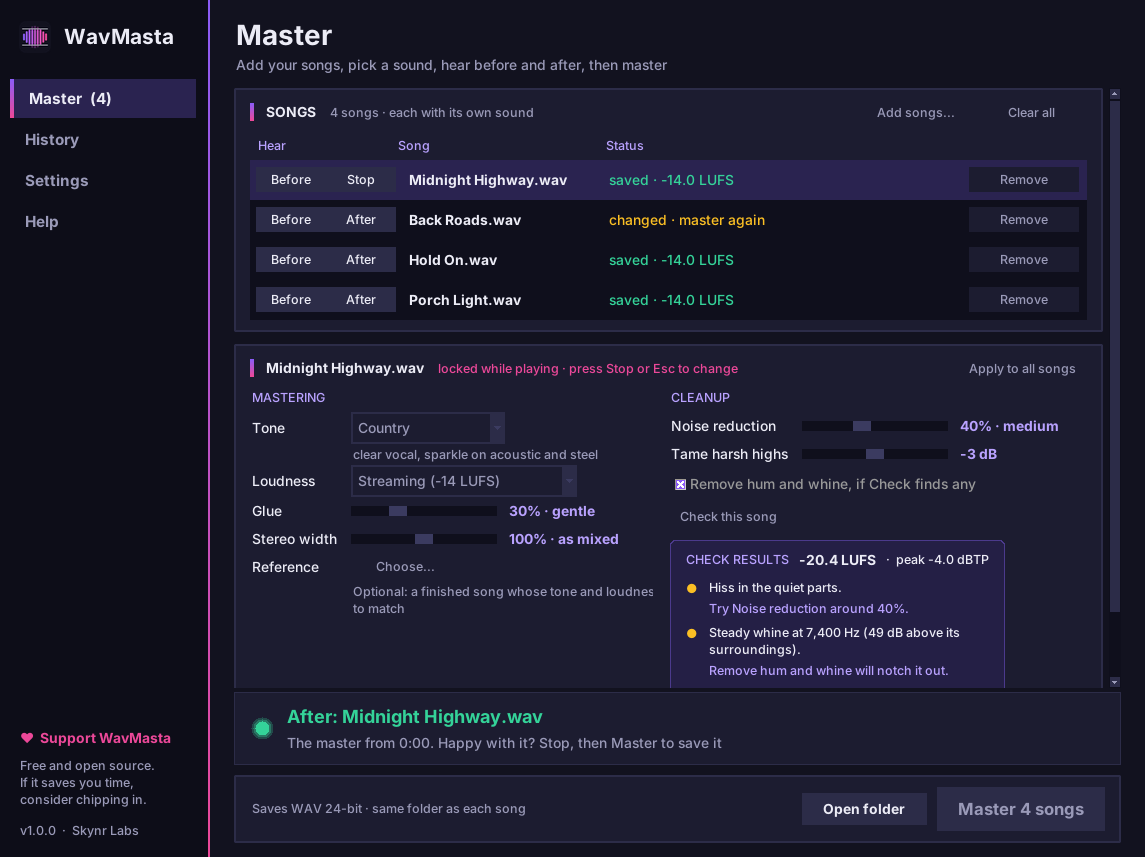
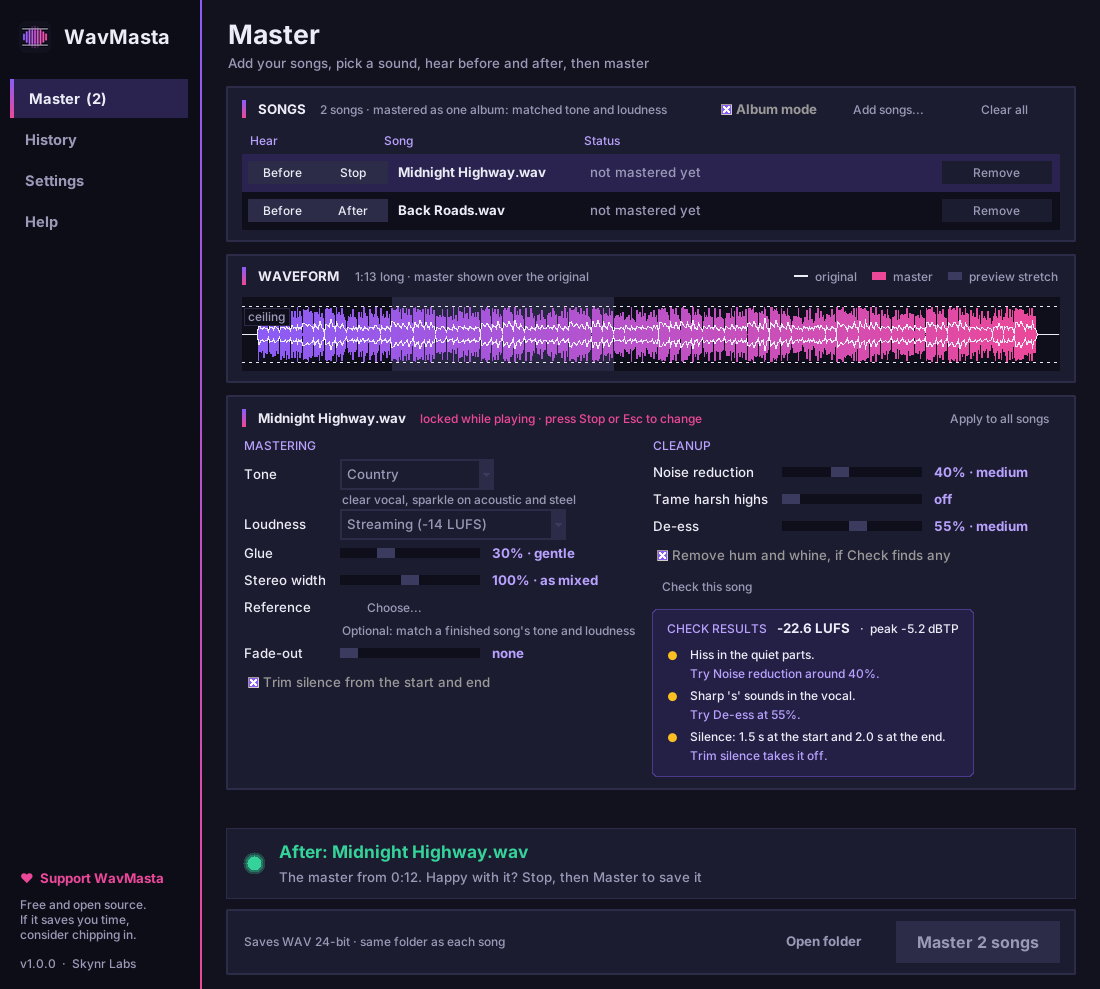
Docs: new features, CLI options and screenshot
Claude-Session: https://claude.ai/code/session_01Ce8T3vqW5MFDUd4Hd2ARY9

diff --git a/README.md b/README.md
@@ -41,14 +41,18 @@ WavMasta does the standard mastering steps in one window, tells you in plain Eng
 - 🧹 **Noise reduction**: a gentle de-hisser that works where hiss lives (above 1 kHz) and never touches the bass or the body of the mix
 - 🔌 **Hum and whine removal**: finds tones that sit there the whole song (50/60 Hz hum, a whine, ringing) and notches them out with very narrow filters, while the notes in your music are left alone
 - ✨ **Tame harsh highs**: softens fizzy, brittle top end, common in AI-generated songs; **Check** works out how many dB your song needs
+- 🐍 **De-esser**: turns down sharp "s" and "t" sounds in the vocal, only while each one lasts and only above 4.5 kHz; **Check** suggests an amount when it hears them
+- ✂ **Trim and fade**: cuts dead air off both ends (without clicks) and fades the ending smoothly; **Check** spots songs that stop suddenly
 - 🎚 **Tone presets**: Neutral, Country, Roots rock, Pop, Warm, Bright, all gentle (within 2 dB)
 - 🎯 **Match a reference**: pick a released song you love and WavMasta matches its tonal balance and loudness
 - 🧲 **Glue and width**: bus compression to hold the mix together, and stereo width that keeps bass and kick centred
-- 📏 **Loudness targets**: Streaming (-14 LUFS), Apple Music (-16), Loud (-11), Very loud (-9), with a true-peak limiter
+- 📏 **Loudness targets**: Streaming (-14 LUFS), Apple Music (-16), Loud (-11), Very loud (-9), with a look-ahead true-peak limiter that never clips
 - ▶ **Fair before/after**: hear the loudest 20 seconds of the original and the master at the same loudness
+- 〰 **Waveform before and after**: the master drawn over the original, with the ceiling and the stretch you heard, so you can see what changed
 - 💾 **Formats**: WAV 24-bit (for distributors), WAV 16-bit with dither (CD), FLAC, MP3 320
-- 📦 **Batch and albums**: drop a whole folder; **Apply to all songs** gives an album one sound
-- 📋 **A report for every master**: History shows each song's clipping, true peak, loudness, punch, and what cleanup removed (hiss, hum and whine, harsh highs)
+- 📦 **Batch and albums**: drop a whole folder; **Apply to all songs** copies one sound to the rest
+- 💿 **Album mode**: listens to the whole set, matches the songs' tone to the album's average and masters them all to the same loudness, so the record plays as one
+- 📋 **A report for every master**: History shows each song's clipping, true peak, loudness, punch, what cleanup removed (hiss, hum and whine, harsh highs, sharp "s" sounds), what was trimmed and how it ends
 - ✅ **Always know where you stand**: each song shows when it's saved, and says *changed · master again* if you tweak it afterwards
 - 🧭 **Clean navigation**: sidebar pages and keyboard shortcuts
 - 💻 **GUI and command line**: point and click, or script it
@@ -95,11 +99,11 @@ Everything happens on the **Master** page, top to bottom:
 
 1. **Drop your songs** (or a whole folder) onto the window, or click **Add songs...** (WAV, FLAC, MP3, AIFF, OGG or M4A). Use your final mix, ideally peaking around -3 to -6 dB with no limiter on the master bus.
 2. **Click a song**, then **Check this song**. WavMasta lists what it found; **Use suggestions** sets the cleanup for you.
-3. Pick a **Tone** and **Loudness** (or choose a **Reference** song to match). **Apply to all songs** copies the sound to the rest.
-4. Press **After** to hear the master and **Before** to hear the original, both from the loudest part of the song at the same loudness. The button turns into **Stop** while it plays, and the sound settings lock until you stop, so what you hear always matches what they show.
+3. Pick a **Tone** and **Loudness** (or choose a **Reference** song to match), and a **Fade-out** if the song stops suddenly. **Apply to all songs** copies the sound to the rest; tick **Album mode** to also match their tone and loudness as a set.
+4. Press **After** to hear the master and **Before** to hear the original, both from the loudest part of the song at the same loudness. The button turns into **Stop** while it plays, and the sound settings lock until you stop, so what you hear always matches what they show. The **Waveform** card draws the master over the original.
 5. Click **Master** (it says how many songs). Each row shows when its file is saved, and says **changed · master again** if you change a setting afterwards.
 
-**History** lists everything Check, Before/After and Master did. Under each mastered song is a short report: clipping, true peak, loudness, punch, and what cleanup removed. Double-click a saved song to open its folder.
+**History** lists everything Check, Before/After and Master did. Under each mastered song is a short report: clipping, true peak, loudness, punch, what cleanup removed, trimming and the ending. An album master adds how closely the songs' loudness now matches. Double-click a saved song to open its folder.
 
 **Settings** holds where masters are saved (next to each song by default), the file format, the peak ceiling, whether the folder opens when mastering finishes, and **Reset everything to defaults**.
 
@@ -107,14 +111,18 @@ Everything happens on the **Master** page, top to bottom:
 
 | Step | What it does |
 |---|---|
+| Trim | Cuts silence off both ends, keeping a short breath before the first note |
 | Rumble filter | Removes sub-bass below 25 Hz you can't hear but that eats loudness |
 | Hum and whine | Very narrow notches on steady tones (found on the untouched audio first) |
 | Noise reduction | De-hisses above 1 kHz, only what sits near the noise floor |
 | Tame harsh highs | A gentle shelf cut above 11 kHz |
+| De-ess | Turns the band above 4.5 kHz down only while an "s" lasts |
+| Album match | Nudges the song's tone toward the album's average (album mode only) |
 | Tone or reference | A gentle EQ shape, or a linear-phase match to your reference song |
 | Stereo width | Mid/side width; bass and kick stay centred |
 | Glue | Slow-attack bus compression |
-| Loudness and limiter | Lands on the target LUFS with true peaks under the ceiling |
+| Fade-out | Smooth fade to silence (before loudness, so the song still lands on target) |
+| Loudness and limiter | Lands on the target LUFS with a look-ahead true-peak limiter; never clips |
 
 ### ⌨ Keyboard shortcuts
 
@@ -140,6 +148,7 @@ wavmasta "My Song.wav" --check
 wavmasta "My Song.wav" --tone country --auto
 wavmasta *.wav --tone roots-rock --loudness -14 --glue 40 --out masters
 wavmasta "My Song.wav" --reference "Favourite Release.flac" --format flac
+wavmasta album/*.wav --album --fade-out 3 --out masters
 ```
 
 | Option | What it does |
@@ -151,10 +160,14 @@ wavmasta "My Song.wav" --reference "Favourite Release.flac" --format flac
 | `--denoise` | Noise reduction `0`-`100` (default `0`) |
 | `--no-hum-fix` | Don't notch out steady hum and whine |
 | `--tame-highs` | Cut harsh highs, `0`-`6` dB |
+| `--deess` | Tame sharp "s" sounds, `0`-`100` (default `0`) |
+| `--fade-out` | Fade the ending over this many seconds, `0`-`10` |
+| `--no-trim` | Keep silence at the start and end |
+| `--album` | Master all the songs as one album: matched tone and loudness |
 | `--glue` | Glue compression `0`-`100` (default `30`) |
 | `--width` | Stereo width `0`-`150` (default `100`) |
 | `--reference` | A finished song to match tone and loudness to |
-| `--auto` | Use the cleanup Check suggests for each song |
+| `--auto` | Use what Check suggests for each song (cleanup, de-ess, trim, fade) |
 | `--format` | `wav` (24-bit), `wav16`, `flac` or `mp3` |
 | `--out` | Folder for the mastered files |
 
@@ -178,6 +191,8 @@ wavmasta "My Song.wav" --reference "Favourite Release.flac" --format flac
 | The master sounds squashed or lifeless | Use **Streaming (-14 LUFS)** instead of Loud or Very loud, and lower **Glue** to 20-30%. |
 | Watery, swirly or "underwater" sound | Lower **Noise reduction**. 30-50% is usually plenty. |
 | The highs sound dull | Lower **Tame harsh highs** and **Noise reduction**, or try the **Bright** tone. |
+| Vocals sound lispy or dull after de-essing | Lower **De-ess**. 30-50% is usually enough. |
+| Album songs still sound different | Album mode matches overall tone and loudness, not arrangement. Check that one song isn't using a **Reference**: a reference decides that song's tone instead. |
 | A hum or buzz is still there | Hum removal only catches tones that stay steady the whole song. A buzz that comes and goes, or changes pitch, needs fixing in the mix. |
 | **Check** reports clipping | The mix itself is clipped and mastering can't undo it. Export the mix a few dB quieter and master that. |
 | Crackles or distortion after uploading | Set **Peak ceiling** to -2.0 on the **Settings** page and master again. |
@@ -199,9 +214,12 @@ wavmasta/
 │   ├── pipeline.py      One song: load → clean up → master → save
 │   ├── analysis.py      Loudness (BS.1770), true peak, hiss, hum/whine and harsh-highs detection
 │   ├── cleanup.py       De-hisser, hum and whine notches, harsh-highs shelf
-│   ├── chain.py         Tone EQ, reference matching, width, glue, loudness and limiter
+│   ├── deess.py         Finding and taming sharp "s" sounds
+│   ├── edges.py         Trimming silence, fade-outs, spotting sudden endings
+│   ├── album.py         Album mode: the set's shared tone and loudness
+│   ├── chain.py         Tone EQ, reference matching, width, glue, loudness and true-peak limiter
 │   ├── audio.py         Reading and writing WAV, FLAC, MP3 (with dither for 16-bit)
-│   └── preview.py       Level-matched before/after clips and playback
+│   └── preview.py       Level-matched before/after clips, playback and waveform outlines
 └── gui/                 The window
     ├── app.py           Main window and shared plumbing
     ├── journeys.py      Check, Before/After and Master workflows
@@ -209,6 +227,7 @@ wavmasta/
     ├── model.py         Each song's own sound settings and status
     ├── tracks_table.py  The songs list: a row per song with Before, After and status
     ├── sound_card.py    The selected song's sound card
+    ├── waveform.py      The before/after waveform card
     ├── sidebar.py       Left-hand navigation
     ├── status_card.py   The large status message above the buttons
     ├── action_bar.py    Save location, Open folder and Master
@@ -245,6 +264,7 @@ master_file("My Song.wav", Settings(tone="Country", denoise=40, target_lufs=-14)
 | UI | Tkinter |
 | Audio processing | pedalboard (Spotify), NumPy, SciPy |
 | Loudness metering | Built-in ITU-R BS.1770-4 meter (checked against pyloudnorm in the tests) |
+| Limiter | Built-in look-ahead limiter with 4x oversampled true-peak detection |
 | Windows app | PyInstaller + Inno Setup |
 
 ---
